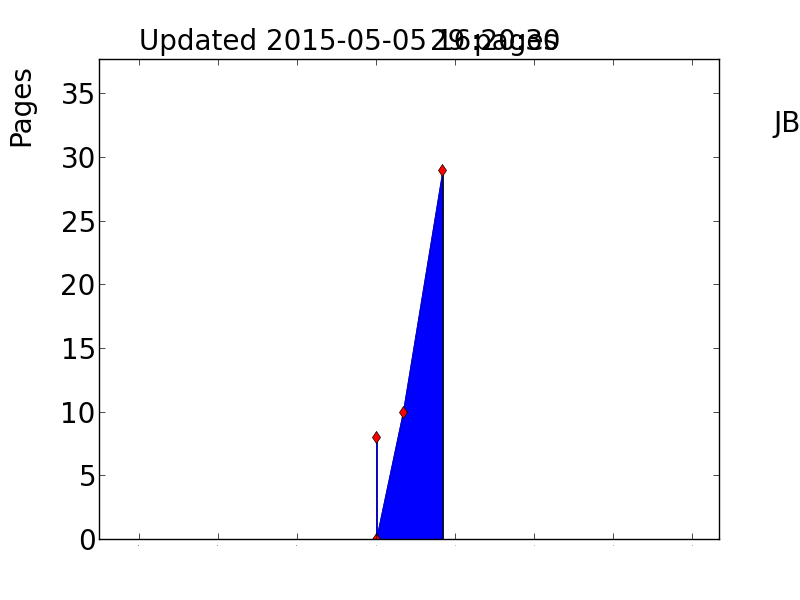
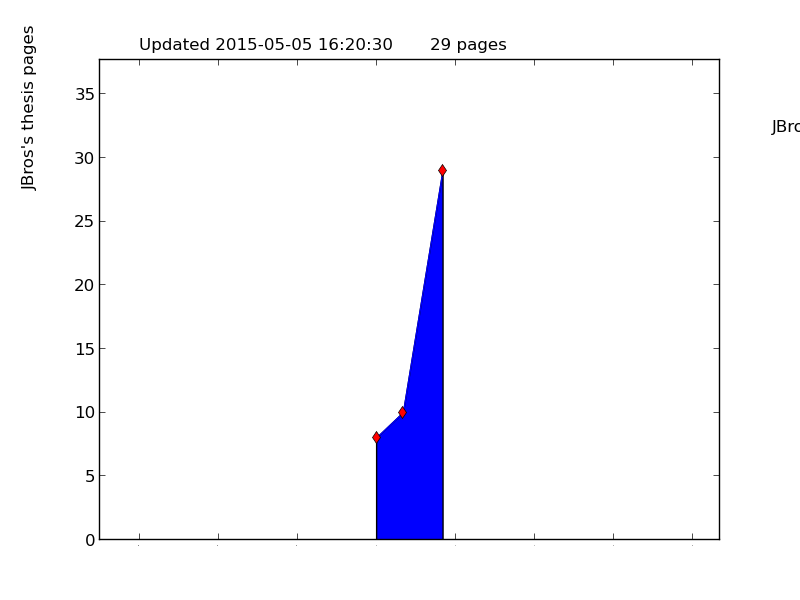
stuff

diff --git a/scripts/plot_pages.py b/scripts/plot_pages.py
@@ -41,9 +41,9 @@ dayssince = np.array(dayssince)
 pages     = np.array(pages)
 
 from matplotlib import rcParams
-rcParams["font.family"] = "sans-serif"
+#rcParams["font.family"] = "sans-serif"
 #rcParams["font.sans-serif"] = ["Helvetica"]
-rcParams["font.size"] = "20"
+rcParams["font.size"] = "12"
 import matplotlib.pyplot as plt
 
 now = datetime.datetime.now()
@@ -55,7 +55,7 @@ ax.yaxis.set_label_coords(-0.10, 0.9)
 
 # configure plot
 plt.xlabel("Days since start (May 4, 2015)")
-plt.ylabel("Pages")
+plt.ylabel("JBros's thesis pages")
 plt.title("")
 ymax = 1.3*max(pages) if annotate else 1.1*max(pages)
 plt.text(0.81*maxdayssince, 1.02*ymax, r"%s pages"   % (lastpages))
@@ -118,6 +118,6 @@ if calendar:
 #     plt.plot([days,   days], [192, 214], "k-")
 
 # save
-rcParams["font.size"] = "20"
+rcParams["font.size"] = "12"
 plt.savefig("pages.png")
 plt.savefig("pages.pdf")

diff --git a/pages.md b/pages.md
@@ -1,3 +1,2 @@
-+ [2015-05-04-00h00m00s] 0
 + [2015-05-04-16h18m01s] 10
 + [2015-05-05-16h20m30s] 29

diff --git a/README.md b/README.md
@@ -1,1 +1,2 @@
 # Thesis
+![progress](pages.png)
